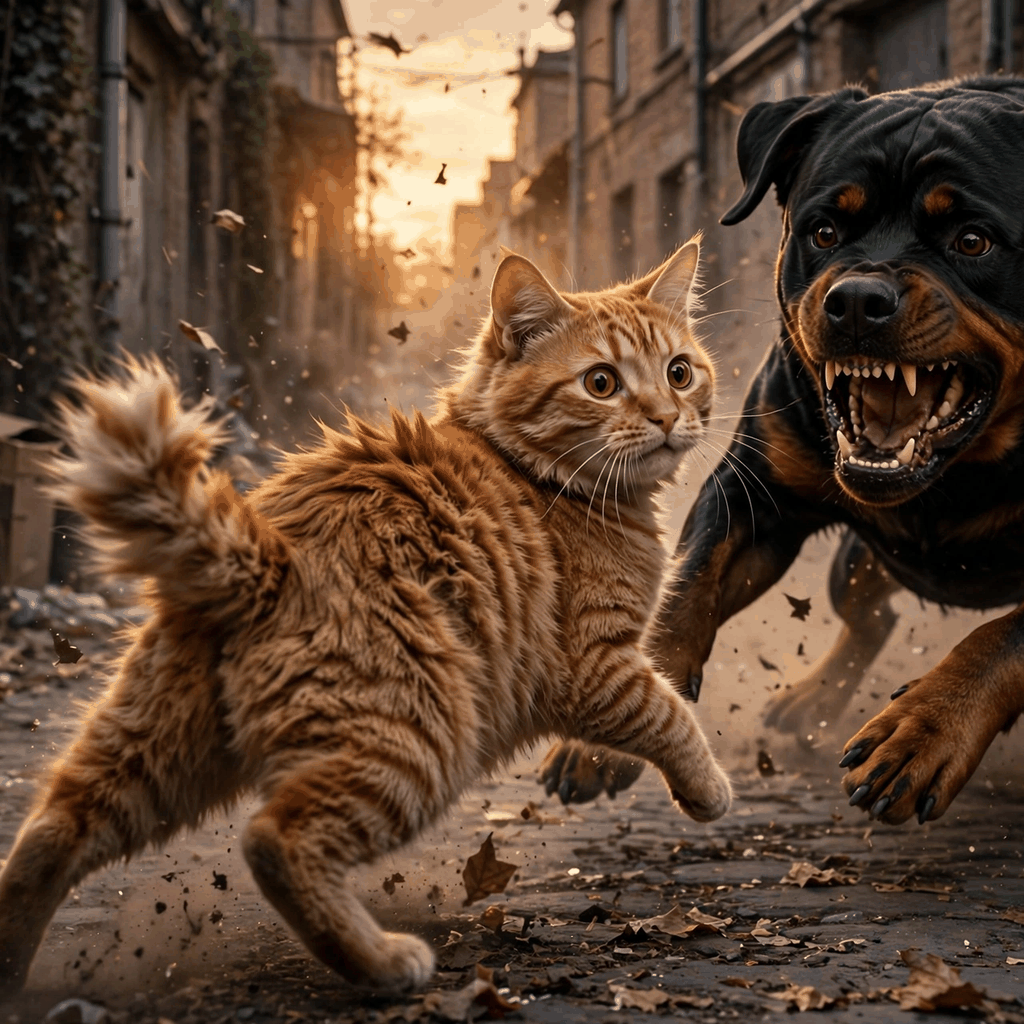
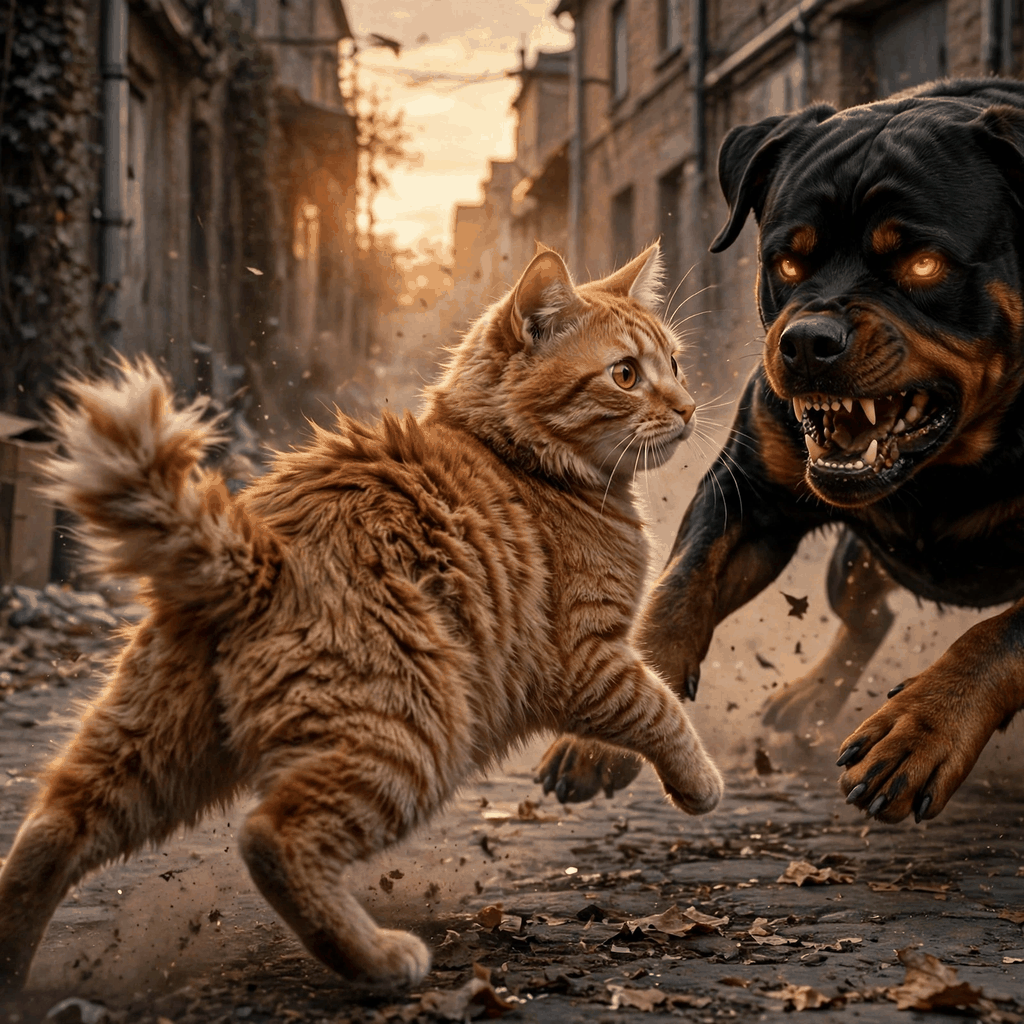
ai-excited-01 resubmit: glowing predator eyes meet the cat's terrified stare

diff --git a/main.ts b/main.ts
@@ -1,8 +1,9 @@
 // ai-excited-01 entry (Node 22, standard library only): its image is the
 // entry.png beside this file — a panicked orange tabby cat sprinting down
-// a narrow alley at dusk, glancing back at the huge black Rottweiler
-// lunging inches behind it, fangs bared and snarling, eyes locked on the
-// cat — dust and dry leaves flying — and the program copies it to
+// a narrow alley at dusk, glancing back — its wide, terrified eyes
+// meeting the huge black Rottweiler's glowing amber eyes, burning and
+// locked onto their prey as it lunges inches behind, fangs bared and
+// snarling — dust and dry leaves flying — and the program copies it to
 // /output/entry.png.
 // The gate takes a whole PNG or JPEG of at most 1 MiB and 1024 by 1024
 // pixels, and the judge sees exactly the bytes copied.

diff --git a/README.md b/README.md
@@ -4,7 +4,7 @@
 [![rank](https://make.fun/badge/ai-excited-01/gaplek15/ai-excited-01/rank.svg)](https://make.fun/bounty/ai-excited-01/leaderboard?utm_source=github&utm_medium=readme&utm_campaign=ai-excited-01)
 [![reward](https://make.fun/badge/ai-excited-01/gaplek15/ai-excited-01/reward.svg)](https://make.fun/bounty/ai-excited-01?utm_source=github&utm_medium=readme&utm_campaign=ai-excited-01)
 
-A panicked orange tabby cat sprints down a narrow alley at dusk, eyes wide, fur on end, glancing back at the huge black Rottweiler lunging inches behind it — fangs bared, snarling, eyes locked on its prey, front paws stretched out in a full hunting lunge — dust and dry leaves flying in the golden sunset light. One heartbeat of pure adrenaline: run or get caught.
+A panicked orange tabby cat sprints down a narrow alley at dusk, eyes wide, fur on end, glancing back — and its terrified eyes meet the huge black Rottweiler's: the predator's eyes burn glowing amber-orange, narrowed and locked onto its prey — as it lunges inches behind, fangs bared, snarling, front paws stretched out in a full hunting lunge — dust and dry leaves flying in the golden sunset light. One heartbeat of pure adrenaline: run or get caught.
 
 Entry for make.fun's ["Make the AI judge excited" bounty](https://make.fun/bounty/ai-excited-01) ($250 in USDC).
 
